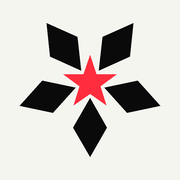
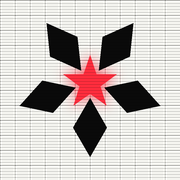
Icône iPhone : fond grille et effet CRT

Changed region(s): [[0.0, 0.0, 1.0, 1.0]]

diff --git a/docs/index.html b/docs/index.html
@@ -6,7 +6,7 @@
 <meta name="robots" content="noindex">
 <title>Cyanocast Admin</title>
 <link rel="icon" type="image/svg+xml" href="favicon.svg?v=2">
-<link rel="apple-touch-icon" sizes="180x180" href="apple-touch-icon.png?v=1">
+<link rel="apple-touch-icon" sizes="180x180" href="apple-touch-icon.png?v=2">
 <meta name="apple-mobile-web-app-title" content="Cyanocast">
 <link rel="preconnect" href="https://fonts.googleapis.com">
 <link rel="preconnect" href="https://fonts.gstatic.com" crossorigin>
